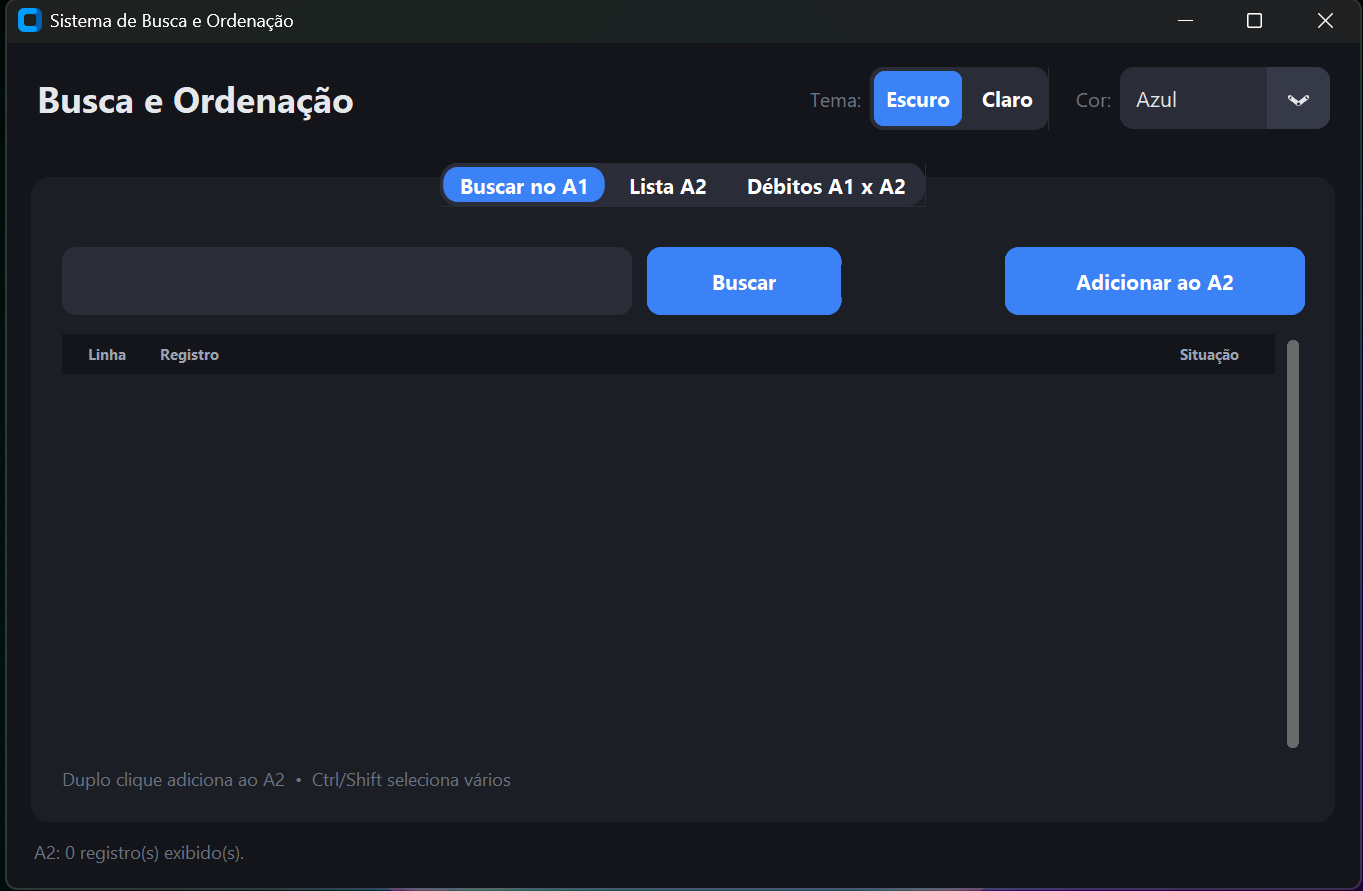
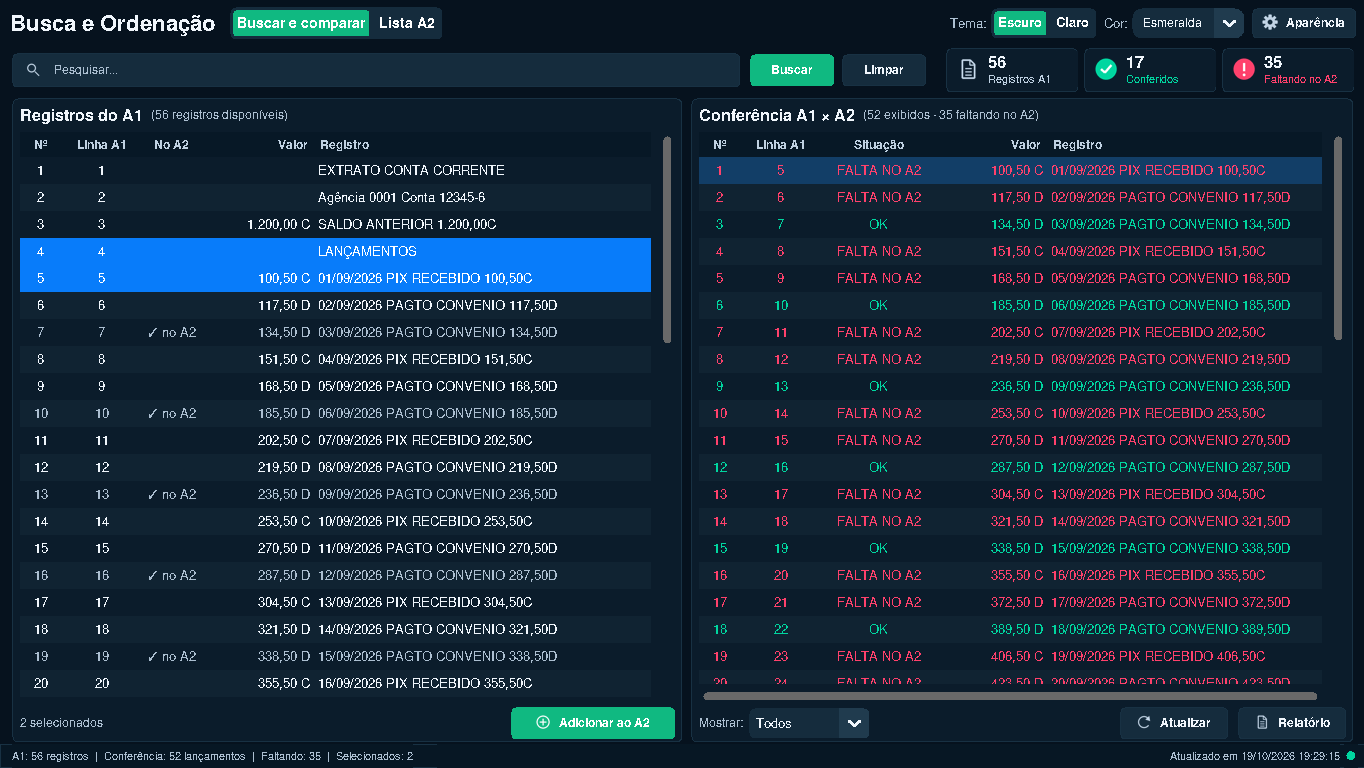
Atualiza imagens antigas e orienta atualização da cópia local

diff --git a/README.md b/README.md
@@ -57,8 +57,8 @@ Clique na mensagem de status para ler seu conteúdo completo.
 Duplo clique adiciona apenas o registro clicado: cabeçalhos e áreas vazias não
 adicionam a seleção anterior. Limpar a seleção também limpa o outro painel.
 
-As capturas da tela inicial e da Lista A2 mostram esse layout. As capturas de
-pesquisa e créditos são anteriores à reorganização. As tabelas mantêm as colunas
+Todas as capturas abaixo mostram o aplicativo atual, incluindo pesquisa e
+filtro de créditos. As tabelas mantêm as colunas
 aprovadas, sem a coluna **Tipo**, e **Registro** é dimensionado pelo conteúdo.
 Use a barra horizontal para ler linhas longas por inteiro e arraste a divisória
 central para ampliar um dos painéis.
@@ -90,10 +90,10 @@ e o tipo selecionado. A sequência **Nº** recomeça em 1 e **Linha A1** mantém
 
 ![Filtro de créditos com três registros, um encontrado e dois faltando](docs/images/creditos.png)
 
-### Referências anteriores
+### Arquivos de referência
 
-A [captura anterior da interface](Interface.png) e o [diagrama original](Diagrama.png)
-foram preservados como referência histórica.
+[Interface.png](Interface.png) mostra a interface atual. O [diagrama original](Diagrama.png)
+é uma referência histórica da organização do projeto, não uma captura do aplicativo.
 
 ## Executar
 
@@ -108,6 +108,31 @@ uv run --frozen python main.py
 O aplicativo cria `a1.txt`, `a2.txt` e a pasta `No/` no diretório de execução.
 Mantenha esse diretório ao reiniciar para acessar os mesmos dados. Esses arquivos
 são locais e ignorados pelo Git; faça cópias de segurança dos registros importantes.
+
+## Atualizar a cópia no computador
+
+Uma atualização no GitHub não substitui o programa já salvo no computador. A versão
+atual tem os cartões **Registros A1**, **Conferidos** e **Faltando no A2**, além das
+duas tabelas lado a lado. [Veja a captura atual](Interface.png).
+
+Se você clonou o projeto com Git, feche o programa e execute na pasta do projeto:
+
+```sh
+git pull --ff-only
+uv sync --frozen
+uv run --frozen python main.py
+```
+
+Se baixou um ZIP, [baixe a branch main novamente](https://github.com/FernandoAAB/Organiza-o/archive/refs/heads/main.zip)
+e extraia em uma pasta nova. Copie `a1.txt`, `a2.txt` e a pasta `No/` da instalação
+anterior para essa pasta, mantendo os originais como cópia de segurança. Execute
+os comandos de instalação e inicialização acima, sem o comando `git pull`.
+Abra o `main.py` da pasta nova; um atalho para a pasta anterior continuará abrindo
+a versão anterior. As dependências atuais incluem Pillow para desenhar os ícones.
+
+Se você usa um `.exe`, baixar o `main.py` não altera esse executável. Este repositório
+contém o código-fonte; um executável antigo precisa ser substituído por uma nova
+compilação, ou você pode executar o código atualizado como descrito acima.
 
 ## Uso e comparação
 
